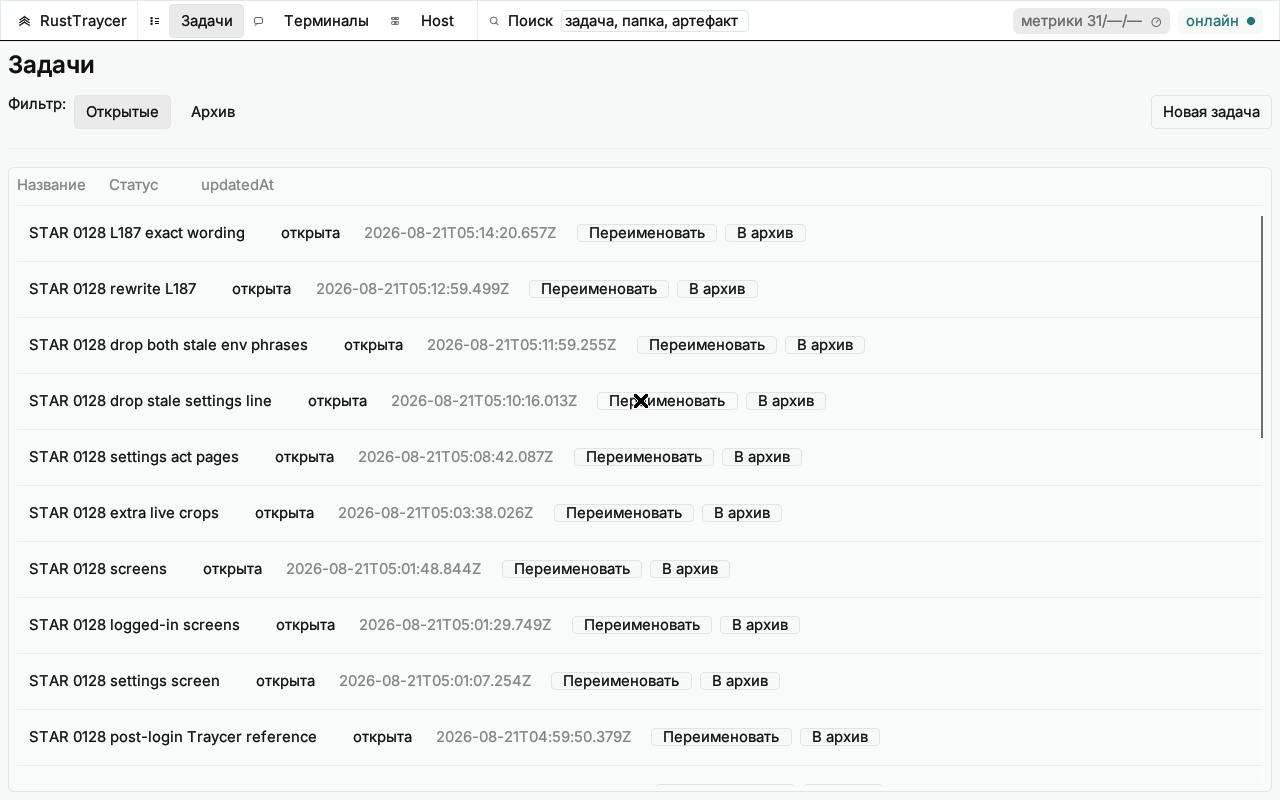
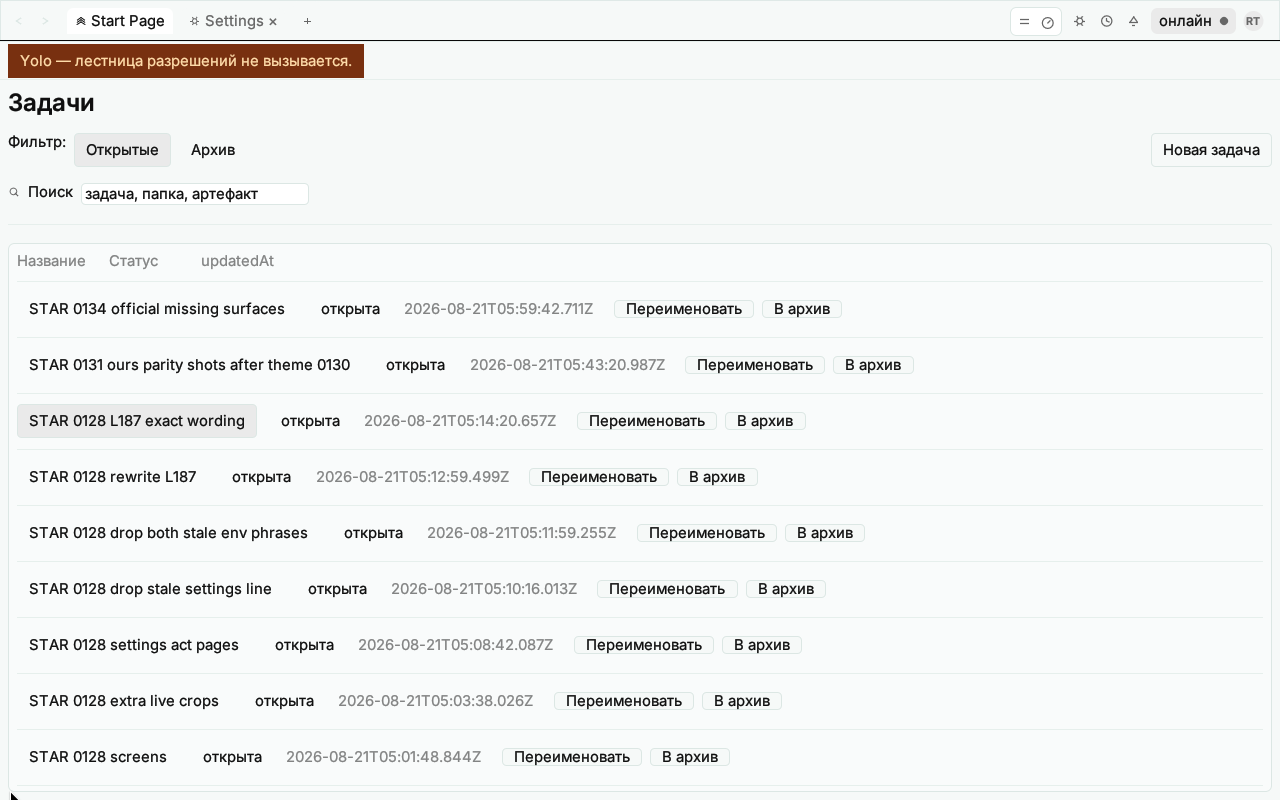
docs: STAR 0135 ours parity shots after chrome IA

diff --git a/docs/parity-shots/README.md b/docs/parity-shots/README.md
@@ -1,49 +1,49 @@
-# Parity shots — ours after theme 0130
+# Parity shots — ours after chrome IA 0133
 
-Observe-only captures of **our** `rt-gui` (STAR 0130 tokens) at 1280×800. Not official Traycer. No `asar`. Host `:45927` was not restarted.
+Observe-only captures of **our** `rt-gui` after STAR 0133 chrome IA (tab strip Start Page / Settings / `+` / avatar). Not official Traycer. No `asar`.
 
 ## Build / session
 
 | Field | Value |
 |---|---|
-| Branch | `task/0131-v3-ours-parity-shots` |
-| Worktree | `/workspace/wt-0131-v3-ours-parity-shots` |
-| Base / `origin/main` | `5da22f96dc85b9c1a52e0828c42c39d5b717d44c` (merge STAR 0130) |
-| Theme commit | `a605806` `feat(gui): apply design-parity theme tokens` |
-| Binary | `cargo build -p rt-gui --release` in this worktree (`CARGO_TARGET_DIR=/workspace/wt-phase0/target`) |
-| Display | Xvfb `:8` 1280×800×24 (fresh; not `:3` official logged-in, not `:5` welcome, not `:6` box desktop) |
-| Window | `RustTraycer` 1280×800+0+0 (root dump == client window) |
+| Branch | `task/0135-v3-ours-shots-chrome` |
+| Worktree | `/workspace/wt-0135-v3-ours-shots-chrome` |
+| Base | `8ce54bba3ea18c309bf7566618fd549fdcd0d656` (merge STAR 0133; not rebased onto `88633cd` / `48b873a`) |
+| Chrome IA | `87254b4` `feat(gui): chrome IA tab strip matching design-parity HT` |
+| Binary | `cargo build -p rt-gui --release` in this worktree |
+| Display | Xvfb `:10` 1280×800×24 (not `:3` official) |
+| Window | `RustTraycer` 1280×800+0+0 |
 | `RUSTTRAYCER_HOME` | `/workspace/df-0102-home` |
 | hostId | `01a01b47-e863-71d3-bd2d-e885cf484d7a` |
-| host pid | **229448** (`rt-host` already live; GUI reconnect via `pid.json` only) |
-| rpcUrl | `http://127.0.0.1:45927` |
-| Capture | 2026-08-21 10:39–10:42 YEKT (05:39–05:42 UTC). `ffmpeg -f x11grab` (`import`/`scrot` not installed). |
-| Policy | Did not restart `:45927`. Did not click Retry/Start. Did not touch official AppImage / asar / `/workspace/ref-traycer`. |
+| host pid | **28385** (`rt-host` started 2026-08-27 after stale 229448 died; GUI reconnect via `pid.json`) |
+| rpcUrl | `http://127.0.0.1:43549` (binary binds `127.0.0.1:0`; `:45927` was down) |
+| Capture | 2026-08-27 21:09–21:12 YEKT (16:09–16:12 UTC). `ffmpeg -f x11grab`. |
+| Policy | Did not rebase. Did not merge/push. Did not start or kill official host 339885. No asar. |
 
 ## Pairing
 
-Official frames live under `docs/reference-screens/`. Pair only where the surface honestly matches.
+Official frames live under `docs/reference-screens/`. Pair only where the surface honestly matches. Official Start Page / History from STAR 0134 live on `88633cd`, **not** on this `8ce54bb` base.
 
 | Ours | Pixels | Official pair |
 |---|---|---|
-| [`ours/chrome.png`](ours/chrome.png) | 1280×40 | [`logged-in-header-avatar.png`](../reference-screens/logged-in-header-avatar.png), [`logged-in-header-tabs-avatar.png`](../reference-screens/logged-in-header-tabs-avatar.png) — header strip only. [`logged-in-settings.png`](../reference-screens/logged-in-settings.png) is official Settings desktop; not an honest pair for this 40 px rusttraycer chrome crop. |
-| [`ours/tasks.png`](ours/tasks.png) | 1280×800 | no official pair (Acts 01–03 / Start Page / History were never captured live) |
+| [`ours/chrome.png`](ours/chrome.png) | 1280×40 | [`logged-in-header-tabs-avatar.png`](../reference-screens/logged-in-header-tabs-avatar.png) **HT** — Start Page / Settings / `+` / avatar strip. Crop heights differ (40 vs 88). |
+| [`ours/tasks.png`](ours/tasks.png) | 1280×800 | no official pair on this base |
 | [`ours/empty.png`](ours/empty.png) | 1280×800 | no official pair |
 | [`ours/canvas.png`](ours/canvas.png) | 1280×800 | no official pair |
-| [`ours/chat.png`](ours/chat.png) | 400×680 | no official pair (chat transcript never captured on official) |
-| [`ours/host.png`](ours/host.png) | 1280×800 | **not** [`logged-in-host-error.png`](../reference-screens/logged-in-host-error.png). Host was online. This is Host diagnostics + YOLO policy banner, not a host-error/reconnect modal. |
+| [`ours/chat.png`](ours/chat.png) | 400×680 | no official pair |
+| [`ours/host.png`](ours/host.png) | 1280×800 | **not** [`logged-in-host-error.png`](../reference-screens/logged-in-host-error.png). Host online. Host diagnostics + YOLO banner. |
 
 ## What each ours frame shows
 
-- **chrome** — top 40 px nav: wordmark, Задачи / open-task tab / Host, search, metrics chip, green **онлайн**.
-- **tasks** — open-task list (STAR 0128 rows), filter Открытые / Архив, Новая задача. Connected chrome, no offline banner.
+- **chrome** — 40 px nav: back/forward, **Start Page** tab, **Settings** tab, **+**, utility cluster, green **онлайн**, **RT** avatar.
+- **tasks** — open-task list (STAR 0128/0131/0134 rows), filter Открытые / Архив, Новая задача. Chrome IA visible.
 - **empty** — Архив filter: card «нет архивных».
-- **canvas** — task `STAR 0128 L187 exact wording`, agents column, canvas/chat split, YOLO banner «Yolo — лестница разрешений не вызывается.»
-- **chat** — right-pane crop: вид Канвас, плитка `cli.generic`, Чат tab, empty transcript («Нет сообщений…»), composer «Написать сообщение…».
-- **host** — Host diagnostics from `pid.json`: hostId / pid **229448** / `:45927` / `startedAt` 2026-08-20T03:45:00.849Z. YOLO banner still visible (policy), not a host-down banner.
+- **canvas** — task `STAR 0128 L187 exact wording`, agents + canvas/chat split, YOLO banner.
+- **chat** — right-pane crop: вид Канвас, плитка `cli.generic`, Чат tab, empty transcript, composer «Написать сообщение…».
+- **host** — Host diagnostics from `pid.json`: hostId / pid **28385** / `:43549` / `startedAt` 2026-08-27T16:06:39.938Z.
 
 ## Not captured
 
-- **Host-error / reconnect banner** — host `/health` 200, GUI **онлайн**. Did not click Повторить / Start / anything that would spawn a second host. Official `logged-in-host-error.png` has no ours pair in this set.
-- **Populated chat** — this task’s transcript is empty on host.
-- **Official Settings / Appearance / Providers / Keybindings pages** — our GUI has Host diagnostics, not those official Settings acts.
+- **Host-error / reconnect banner** — `/health` 200, GUI **онлайн**.
+- **Populated chat** — transcript empty.
+- **Official Settings acts** — our Settings tab opens Host diagnostics, not Appearance/Providers/Keybindings.
